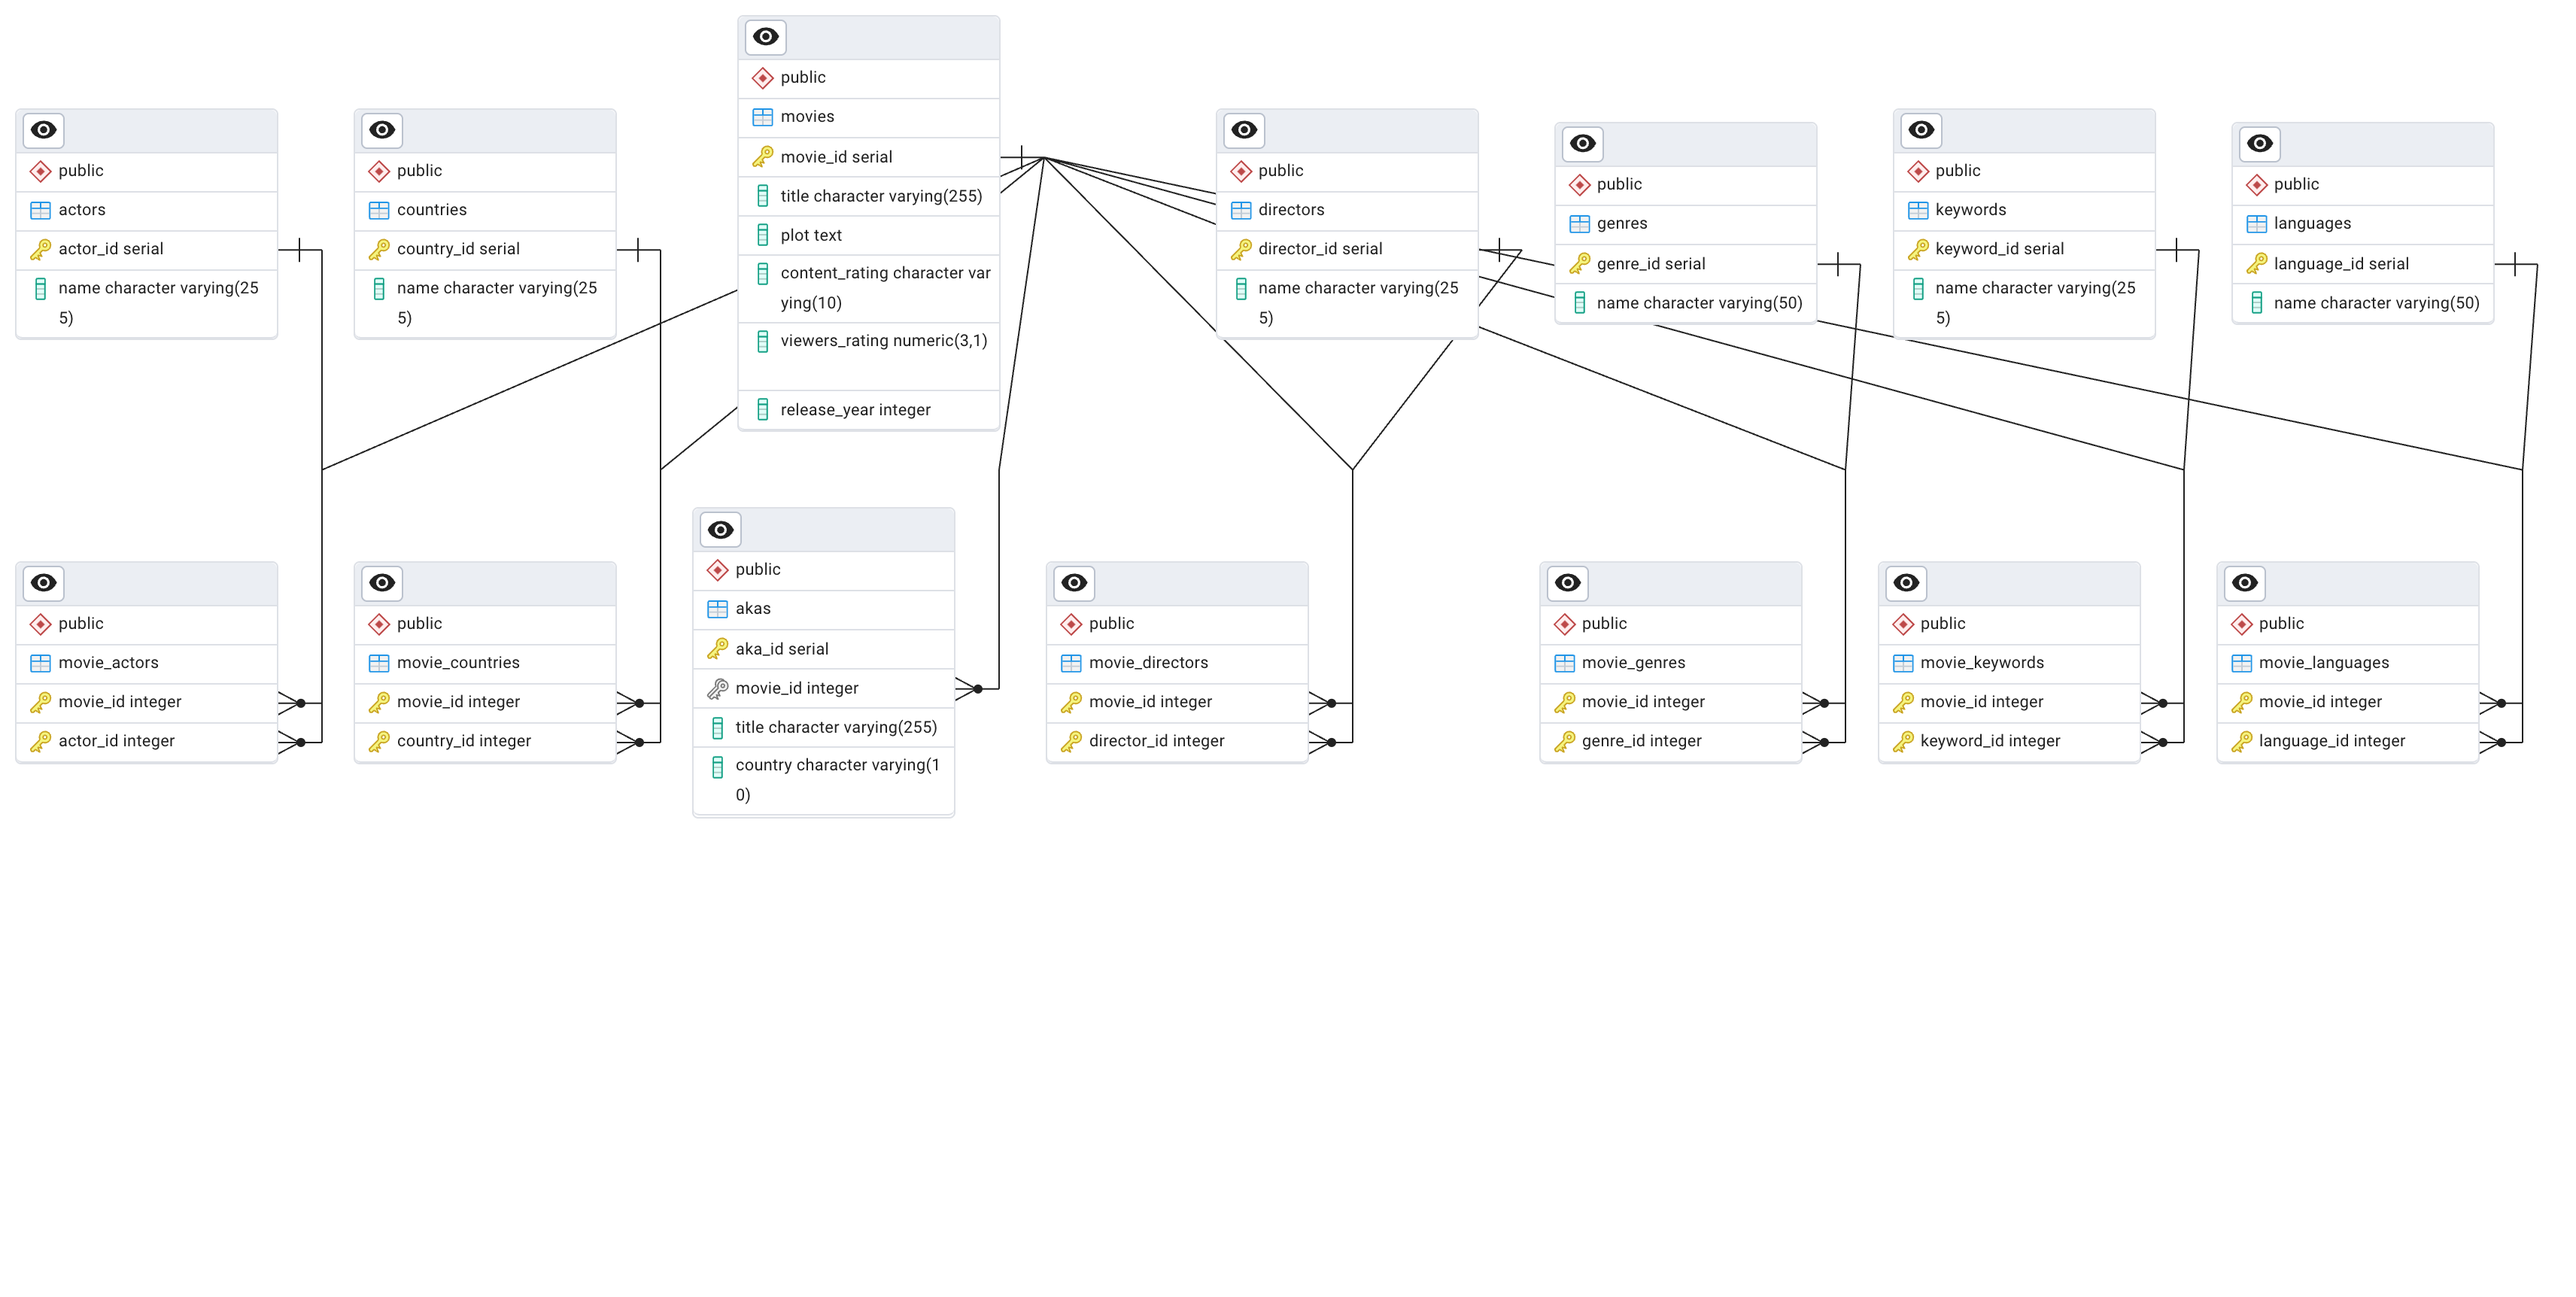
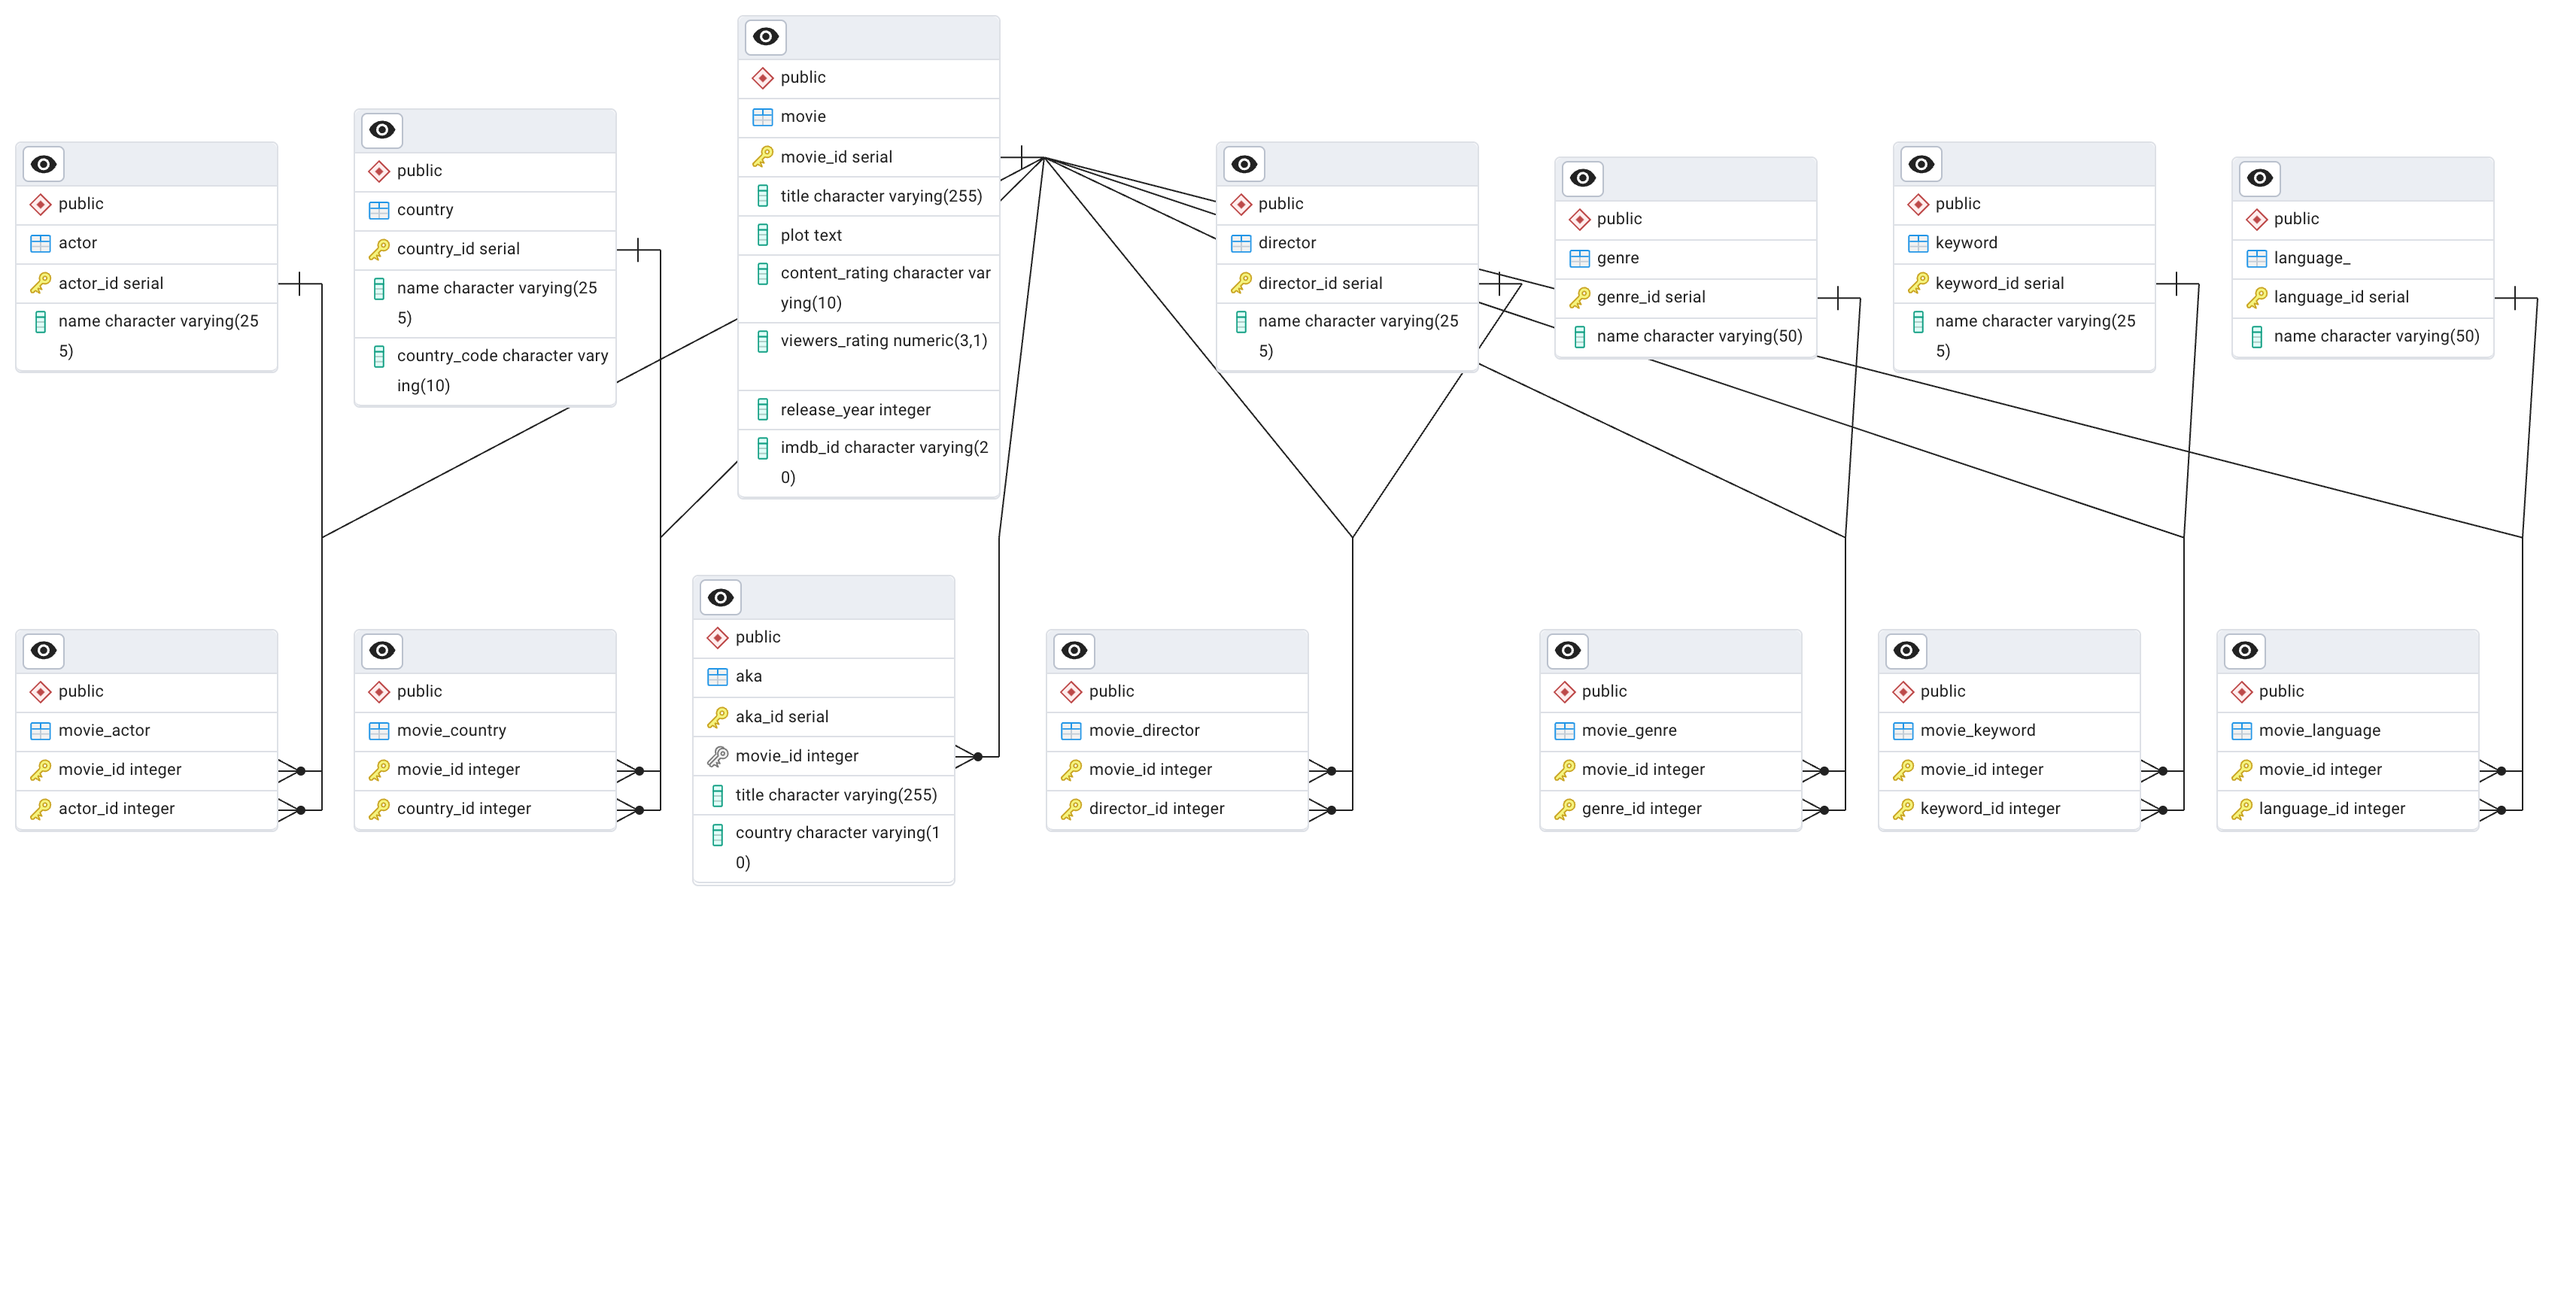
PArt 4 and 5 fully done and tested

diff --git a/DLL_5/db_pop_dll.py b/DLL_5/db_pop_dll.py
@@ -1,0 +1,172 @@
+import requests  # type: ignore
+import psycopg2  # type: ignore
+import random  # type: ignore
+
+# Define the base URLs and API key
+api_key = "d3967d088d5c2e4baa702cf128358a62"
+discover_url = "https://api.themoviedb.org/3/discover/movie"
+movie_details_url = "https://api.themoviedb.org/3/movie/{}"
+genres_url = "https://api.themoviedb.org/3/genre/movie/list"
+
+# Define random content rating options
+random_content_ratings = ['G', 'PG', 'PG-13', 'R', 'NC-17', 'R']
+
+# Connect to PostgreSQL
+conn = psycopg2.connect(
+    dbname="movies_db",
+    user="kel",
+    password="soen363",
+    host="localhost",
+    port="5432"
+)
+cur = conn.cursor()
+
+# Fetch and insert genres
+def fetch_and_insert_genres():
+    response = requests.get(genres_url, params={"api_key": api_key, "language": "en-US"})
+    if response.status_code == 200:
+        genres_data = response.json().get('genres', [])
+        for genre in genres_data:
+            genre_id = genre['id']
+            genre_name = genre['name']
+            cur.execute("""
+                INSERT INTO genre (genre_id, name)
+                VALUES (%s, %s)
+                ON CONFLICT (genre_id) DO NOTHING;
+            """, (genre_id, genre_name))
+        conn.commit()
+    else:
+        print(f"Failed to fetch genres: {response.status_code}")
+
+# Helper function to insert data into tables with conflict handling
+def insert_if_not_exists(table, columns, values):
+    placeholders = ", ".join(["%s"] * len(values))
+    column_names = ", ".join(columns)
+    cur.execute(
+        f"INSERT INTO {table} ({column_names}) VALUES ({placeholders}) ON CONFLICT DO NOTHING;",
+        values
+    )
+
+def generate_random_imdb_id():
+    # Randomly generate an imdb_id in the format tt########
+    return "tt" + str(random.randint(1000000, 9999999))
+
+# Fetch and insert movies and related data
+def fetch_and_insert_movies(min_movies=50):
+    page = 1
+    total_movies_inserted = 0
+    while total_movies_inserted < min_movies:
+        params = {
+            "api_key": api_key,
+            "language": "en-US",
+            "sort_by": "popularity.desc",
+            "page": page
+        }
+        response = requests.get(discover_url, params=params)
+        if response.status_code == 200:
+            movies_data = response.json().get('results', [])
+            if not movies_data:
+                print("No more movies to fetch.")
+                break
+            
+            for movie in movies_data:
+                title = movie.get('title')
+                plot = movie.get('overview')
+                content_rating = movie.get('content_rating', random.choice(random_content_ratings))  # Random if not provided
+                viewers_rating = movie.get('vote_average', 0.0)
+                release_date = movie.get('release_date', "0000-00-00")
+                release_year = int(release_date.split('-')[0]) if release_date else None
+
+                # Generate a random IMDB ID with a 50% chance
+                imdb_id = None
+                if random.random() > 0.5:  # 50% chance to assign a random imdb_id
+                    imdb_id = generate_random_imdb_id()
+
+                # Build the SQL query dynamically depending on whether imdb_id is available
+                if imdb_id:
+                    cur.execute("""
+                        INSERT INTO movie (title, plot, content_rating, viewers_rating, release_year, imdb_id)
+                        VALUES (%s, %s, %s, %s, %s, %s) RETURNING movie_id;
+                    """, (title, plot, content_rating, viewers_rating, release_year, imdb_id))
+                else:
+                    cur.execute("""
+                        INSERT INTO movie (title, plot, content_rating, viewers_rating, release_year)
+                        VALUES (%s, %s, %s, %s, %s) RETURNING movie_id;
+                    """, (title, plot, content_rating, viewers_rating, release_year))
+
+                movie_id = cur.fetchone()[0]
+
+                genre_ids = movie.get('genre_ids', [])
+                for genre_id in genre_ids:
+                    cur.execute("""
+                        INSERT INTO movie_genre (movie_id, genre_id)
+                        VALUES (%s, %s) ON CONFLICT DO NOTHING;
+                    """, (movie_id, genre_id))
+
+                # Fetch additional movie details
+                fetch_and_insert_movie_details(movie_id, movie['id'])
+
+                total_movies_inserted += 1
+                if total_movies_inserted >= min_movies:
+                    break
+
+            page += 1
+            conn.commit()
+        else:
+            print(f"Failed to fetch movies on page {page}: {response.status_code}")
+            break
+
+# Fetch and insert movie details (actors, directors, countries, languages, keywords, AKAs)
+def fetch_and_insert_movie_details(movie_id, tmdb_movie_id):
+    details_response = requests.get(movie_details_url.format(tmdb_movie_id), params={"api_key": api_key, "append_to_response": "credits,keywords,releases,translations"})
+    if details_response.status_code == 200:
+        details = details_response.json()
+
+        # Insert actors
+        for actor in details['credits']['cast'][:10]:  # Limit to top 10 cast members
+            insert_if_not_exists("actor", ["name"], [actor['name']])
+            cur.execute("SELECT actor_id FROM actor WHERE name = %s", (actor['name'],))
+            actor_id = cur.fetchone()[0]
+            cur.execute("INSERT INTO movie_actor (movie_id, actor_id) VALUES (%s, %s) ON CONFLICT DO NOTHING", (movie_id, actor_id))
+
+        # Insert directors
+        for crew in details['credits']['crew']:
+            if crew['job'] == 'Director':
+                insert_if_not_exists("director", ["name"], [crew['name']])
+                cur.execute("SELECT director_id FROM director WHERE name = %s", (crew['name'],))
+                director_id = cur.fetchone()[0]
+                cur.execute("INSERT INTO movie_director (movie_id, director_id) VALUES (%s, %s) ON CONFLICT DO NOTHING", (movie_id, director_id))
+
+        # Insert countries and country codes
+        for country in details.get('production_countries', []):
+            insert_if_not_exists("country", ["name", "country_code"], [country['name'], country['iso_3166_1']])
+            cur.execute("SELECT country_id FROM country WHERE name = %s AND country_code = %s", (country['name'], country['iso_3166_1']))
+            country_id = cur.fetchone()[0]
+            cur.execute("INSERT INTO movie_country (movie_id, country_id) VALUES (%s, %s) ON CONFLICT DO NOTHING", (movie_id, country_id))
+
+        # Insert languages
+        for language in details.get('spoken_languages', []):
+            insert_if_not_exists("language_", ["name"], [language['name']])
+            cur.execute("SELECT language_id FROM language_ WHERE name = %s", (language['name'],))
+            language_id = cur.fetchone()[0]
+            cur.execute("INSERT INTO movie_language (movie_id, language_id) VALUES (%s, %s) ON CONFLICT DO NOTHING", (movie_id, language_id))
+
+        # Insert keywords
+        for keyword in details['keywords']['keywords']:
+            insert_if_not_exists("keyword", ["name"], [keyword['name']])
+            cur.execute("SELECT keyword_id FROM keyword WHERE name = %s", (keyword['name'],))
+            keyword_id = cur.fetchone()[0]
+            cur.execute("INSERT INTO movie_keyword (movie_id, keyword_id) VALUES (%s, %s) ON CONFLICT DO NOTHING", (movie_id, keyword_id))
+
+        conn.commit()
+    else:
+        print(f"Failed to fetch details for movie {tmdb_movie_id}: {details_response.status_code}")
+
+# Run functions to fetch and insert data
+fetch_and_insert_genres()
+fetch_and_insert_movies(min_movies=50)
+
+# Close the connection
+cur.close()
+conn.close()
+print("Data insertion complete.")

diff --git a/DLL_5/db_instance.py b/DLL_5/db_instance.py
@@ -1,5 +1,3 @@
-## ---------------------------------- PART 3 -----------------------------------------
-
 import psycopg2 # type: ignore
 from psycopg2 import sql # type: ignore
 
@@ -22,7 +20,8 @@ cur.execute("""
         plot TEXT,
         content_rating VARCHAR(10),
         viewers_rating DECIMAL(3, 1),
-        release_year INT
+        release_year INT,
+        imdb_id VARCHAR(20) -- New column for IMDb ID (VARCHAR to store the IMDb ID / optional might be empty for some records)
     );
 """)
 
@@ -71,7 +70,7 @@ cur.execute("""
 # Create the movie_directors table (many-to-many relationship between movies and directors)
 cur.execute("""
     CREATE TABLE IF NOT EXISTS movie_director (
-        movie_id INT REFERENCES movie(movie_id),
+        movie_id INT REFERENCES movie(movie_id) ON DELETE CASCADE ON UPDATE CASCADE,
         director_id INT REFERENCES director(director_id) ON DELETE CASCADE ON UPDATE CASCADE,
         PRIMARY KEY (movie_id, director_id)
     );
@@ -81,7 +80,8 @@ cur.execute("""
 cur.execute("""
     CREATE TABLE IF NOT EXISTS country (
         country_id SERIAL PRIMARY KEY,
-        name VARCHAR(255)
+        name VARCHAR(255),
+        country_code VARCHAR(10) -- New column for country code (can store 2 or 3 character country codes)
     );
 """)
 
@@ -169,13 +169,13 @@ except Exception as e:
 
 
 # test insertion -- alles gute
-def insert_movie(title, plot, content_rating, viewers_rating, release_year):
+def insert_movie(title, plot, content_rating, viewers_rating, release_year, imdb_id):
     cur.execute(
         """
-        INSERT INTO movie (title, plot, content_rating, viewers_rating, release_year)
-        VALUES (%s, %s, %s, %s, %s) RETURNING movie_id;
+        INSERT INTO movie (title, plot, content_rating, viewers_rating, release_year, imdb_id)
+        VALUES (%s, %s, %s, %s, %s, %s) RETURNING movie_id;
         """,
-        (title, plot, content_rating, viewers_rating, release_year)
+        (title, plot, content_rating, viewers_rating, release_year, imdb_id)
     )
     conn.commit()
     movie_id = cur.fetchone()[0]  # Retrieve the inserted movie ID
@@ -186,9 +186,18 @@ movie_id = insert_movie(
     "An upcoming superhero film based on the Marvel Comics character Spider-Man",
     "SP-13",
     10.0,
-    2024
+    2024,
+    "tt1234567"  # IMDb ID
 )
 
 # closing the connection
 cur.close()
 conn.close()
+
+
+
+## How to reset postgres tables for tests:
+# DROP SCHEMA public CASCADE;
+# CREATE SCHEMA public;
+# GRANT ALL ON SCHEMA public TO postgres;
+# GRANT ALL ON SCHEMA public TO public;
